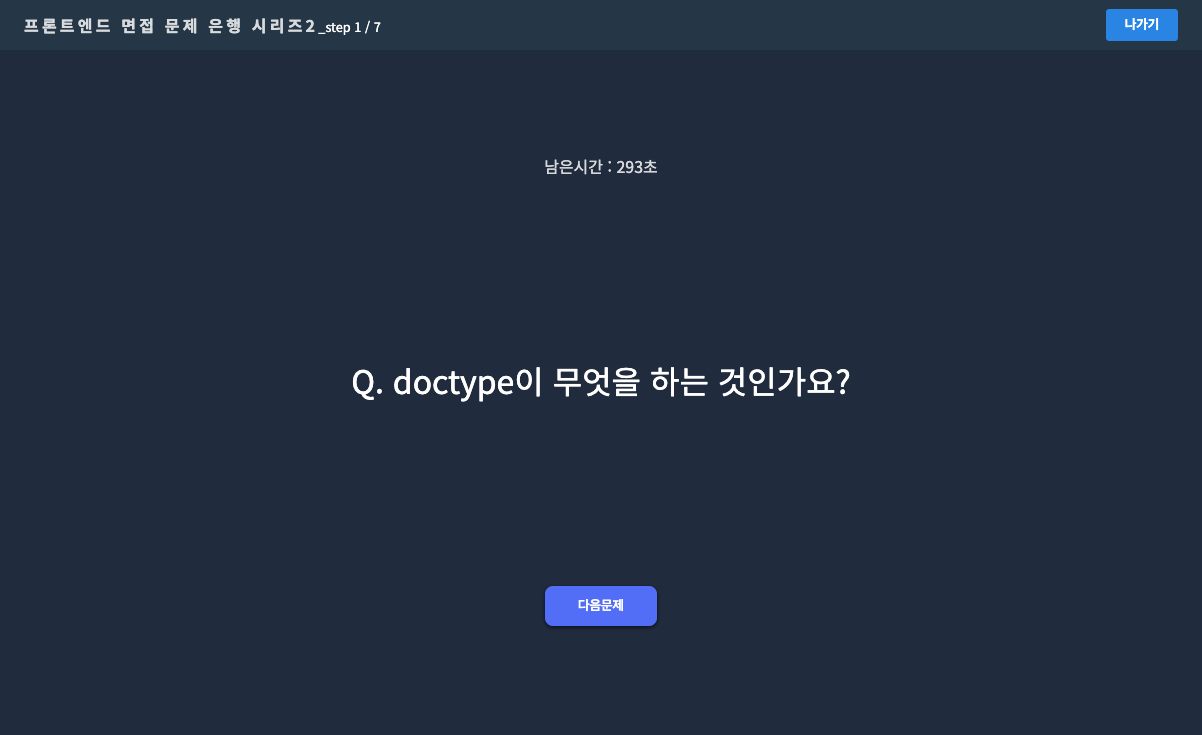
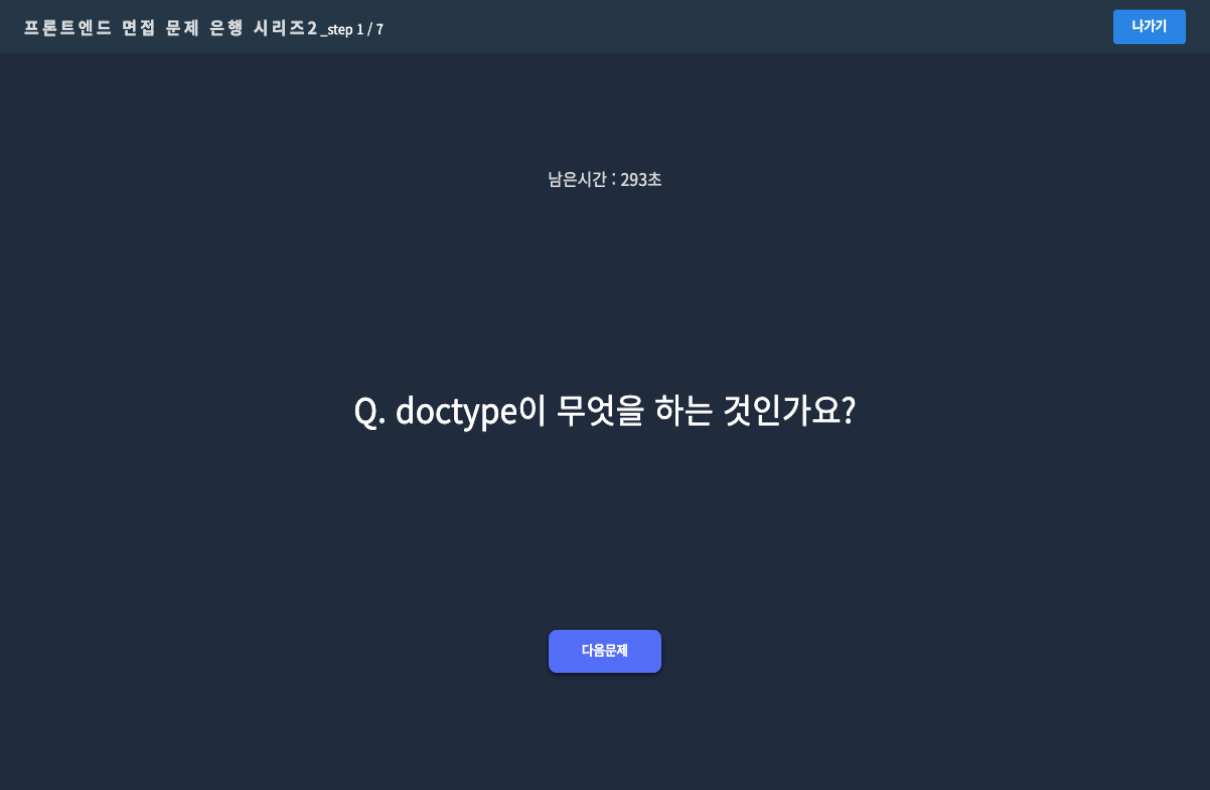
Resize main image
- remove cursor

diff --git a/src/components/common/GuideStepList.jsx b/src/components/common/GuideStepList.jsx
@@ -10,14 +10,26 @@ const ListStyled = styled.li({
   margin: '1rem 1.5rem',
 
   img: {
-    width: '18rem',
+    width: '100%',
+    maxWidth: '36rem',
+    height: '100%',
+    maxHeight: '23rem',
     margin: '1.1rem 0',
     borderRadius: '.3rem',
     transition: 'transform .5s',
-    cursor: 'pointer',
   },
+
   h2: {
     color: '#fff',
+  },
+  '@media (max-width: 64rem)': {
+    img: {
+      maxWidth: '100%',
+      maxHeight: '100%',
+    },
+    h2: {
+      marginTop: '2rem',
+    },
   },
 });
 

diff --git a/src/components/common/CustomLazyLoadImage.jsx b/src/components/common/CustomLazyLoadImage.jsx
@@ -6,9 +6,7 @@ const CustomLazyLoadImage = ({ image }) => (
   <>
     <LazyLoadImage
       alt={image.alt}
-      height={image.height}
       src={image.src} // use normal <img> attributes as props
-      width={image.width}
       effect="blur"
     />
   </>
